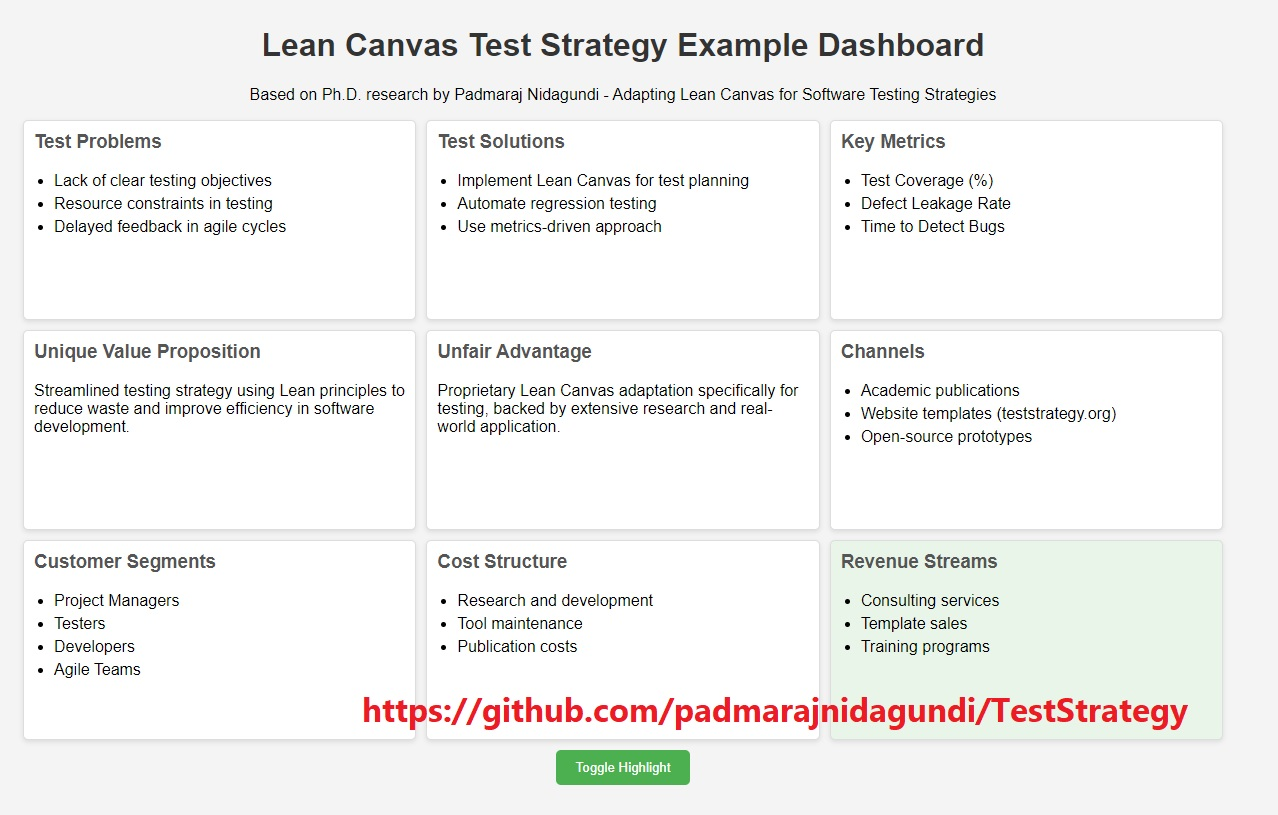
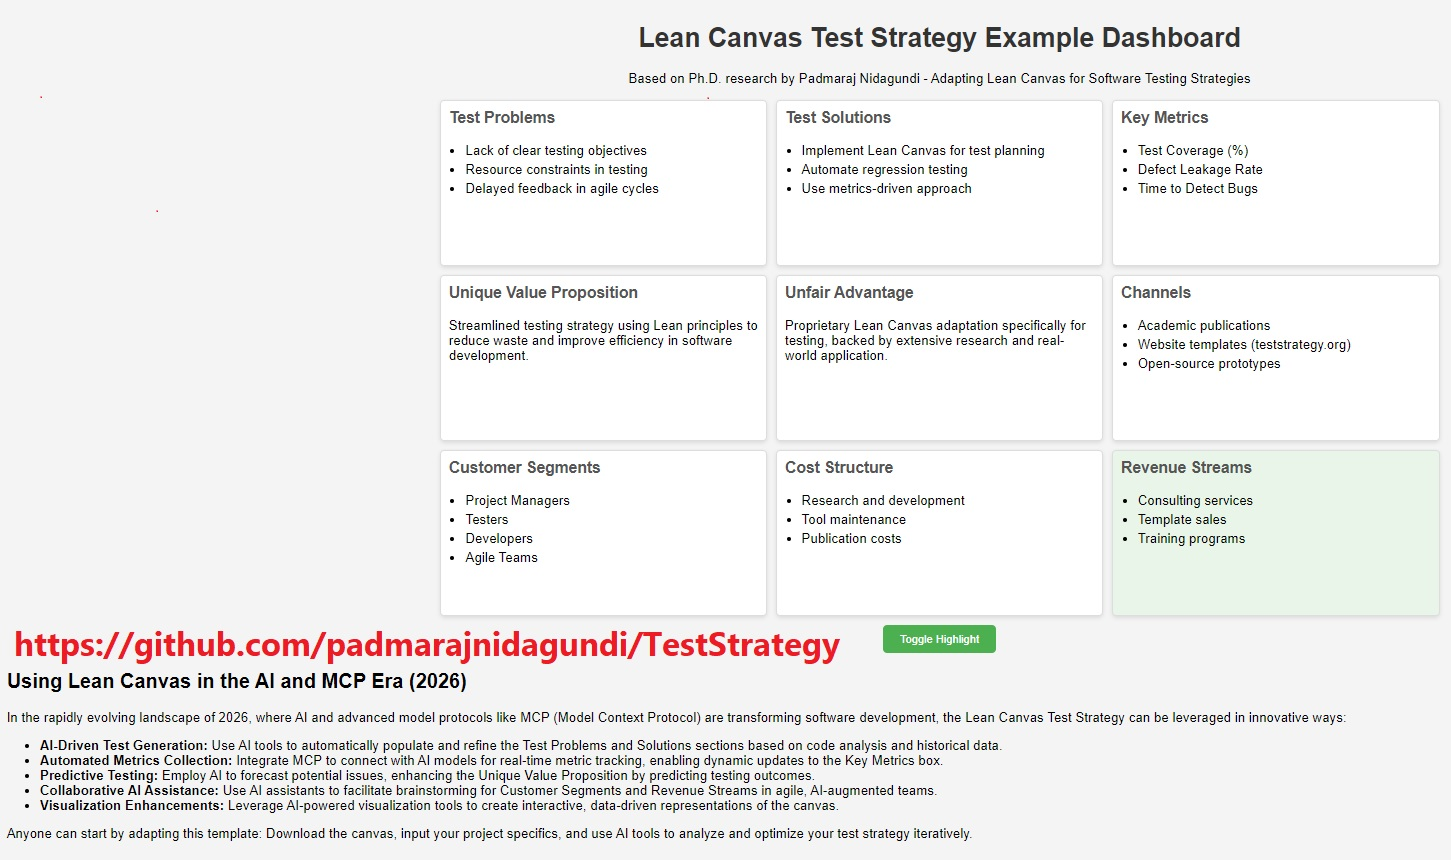
origin/main

Changed region(s): [[0.0, 0.0307, 0.946, 0.9816], [0.0305, 0.2147, 0.2136, 0.3067], [0.0305, 0.1534, 0.1221, 0.184]]

diff --git a/index.html b/index.html
@@ -133,6 +133,17 @@
 
     <button onclick="toggleHighlight()">Toggle Highlight</button>
 
+    <h2>Using Lean Canvas in the AI and MCP Era (2026)</h2>
+    <p>In the rapidly evolving landscape of 2026, where AI and advanced model protocols like MCP (Model Context Protocol) are transforming software development, the Lean Canvas Test Strategy can be leveraged in innovative ways:</p>
+    <ul>
+        <li><strong>AI-Driven Test Generation:</strong> Use AI tools to automatically populate and refine the Test Problems and Solutions sections based on code analysis and historical data.</li>
+        <li><strong>Automated Metrics Collection:</strong> Integrate MCP to connect with AI models for real-time metric tracking, enabling dynamic updates to the Key Metrics box.</li>
+        <li><strong>Predictive Testing:</strong> Employ AI to forecast potential issues, enhancing the Unique Value Proposition by predicting testing outcomes.</li>
+        <li><strong>Collaborative AI Assistance:</strong> Use AI assistants to facilitate brainstorming for Customer Segments and Revenue Streams in agile, AI-augmented teams.</li>
+        <li><strong>Visualization Enhancements:</strong> Leverage AI-powered visualization tools to create interactive, data-driven representations of the canvas.</li>
+    </ul>
+    <p>Anyone can start by adapting this template: Download the canvas, input your project specifics, and use AI tools to analyze and optimize your test strategy iteratively.</p>
+
     <script>
         function toggleHighlight() {
             const boxes = document.querySelectorAll('.box');
@@ -144,6 +155,23 @@
                 }
             });
         }
+
+        // Add simple edit functionality
+        document.querySelectorAll('.box').forEach(box => {
+            box.addEventListener('click', function() {
+                const content = this.innerHTML;
+                const editable = document.createElement('div');
+                editable.contentEditable = true;
+                editable.innerHTML = content;
+                this.innerHTML = '';
+                this.appendChild(editable);
+                editable.focus();
+
+                editable.addEventListener('blur', function() {
+                    box.innerHTML = this.innerHTML;
+                });
+            });
+        });
     </script>
 </body>
 </html>

diff --git a/README.md b/README.md
@@ -32,6 +32,24 @@ Research Interests: Test Strategy, Visualization, Information Visualization, Aut
 
 - **Security Testing**: A type of software testing that intends to uncover vulnerabilities of the system and determine that its data and resources are protected from possible intruders. It falls under non-functional testing. ISTQB Definition: security testing: Testing to determine the security of the software product. [Strategy Link](https://teststrategy.org/security-test-strategy-template/)
 
+## Using Lean Canvas in the AI and MCP Era (2026)
+
+In the innovative development era of 2026, characterized by advancements in Artificial Intelligence (AI) and protocols like Model Context Protocol (MCP), the Lean Canvas Test Strategy can be powerfully adapted for modern software testing:
+
+- **AI-Driven Test Generation**: Leverage AI to automatically identify and populate Test Problems and Solutions based on code repositories, historical bug data, and predictive analytics.
+- **Automated Metrics with MCP**: Integrate MCP to enable seamless communication between AI models and testing tools, allowing real-time collection and visualization of Key Metrics.
+- **Predictive and Adaptive Strategies**: Use AI to forecast testing challenges, dynamically updating the Unique Value Proposition and Unfair Advantage sections.
+- **Collaborative AI Tools**: Employ AI assistants for brainstorming and refining Customer Segments, Channels, and Revenue Streams in AI-augmented development teams.
+- **Enhanced Visualization**: Utilize AI-powered visualization libraries to create interactive, data-driven dashboards that evolve with project needs.
+
+Anyone can get started by:
+1. Accessing the prototype dashboard at [index.html](index.html)
+2. Integrating AI tools for data input and analysis
+3. Iteratively refining the canvas using MCP for model-driven insights
+4. Sharing and collaborating via cloud-based platforms
+
+This approach ensures lean, efficient testing strategies that keep pace with 2026's AI-driven development cycles.
+
 ## Visualization
 
 Visualization or visualisation (see spelling differences) is any technique for creating images, diagrams, or animations to communicate a message.
